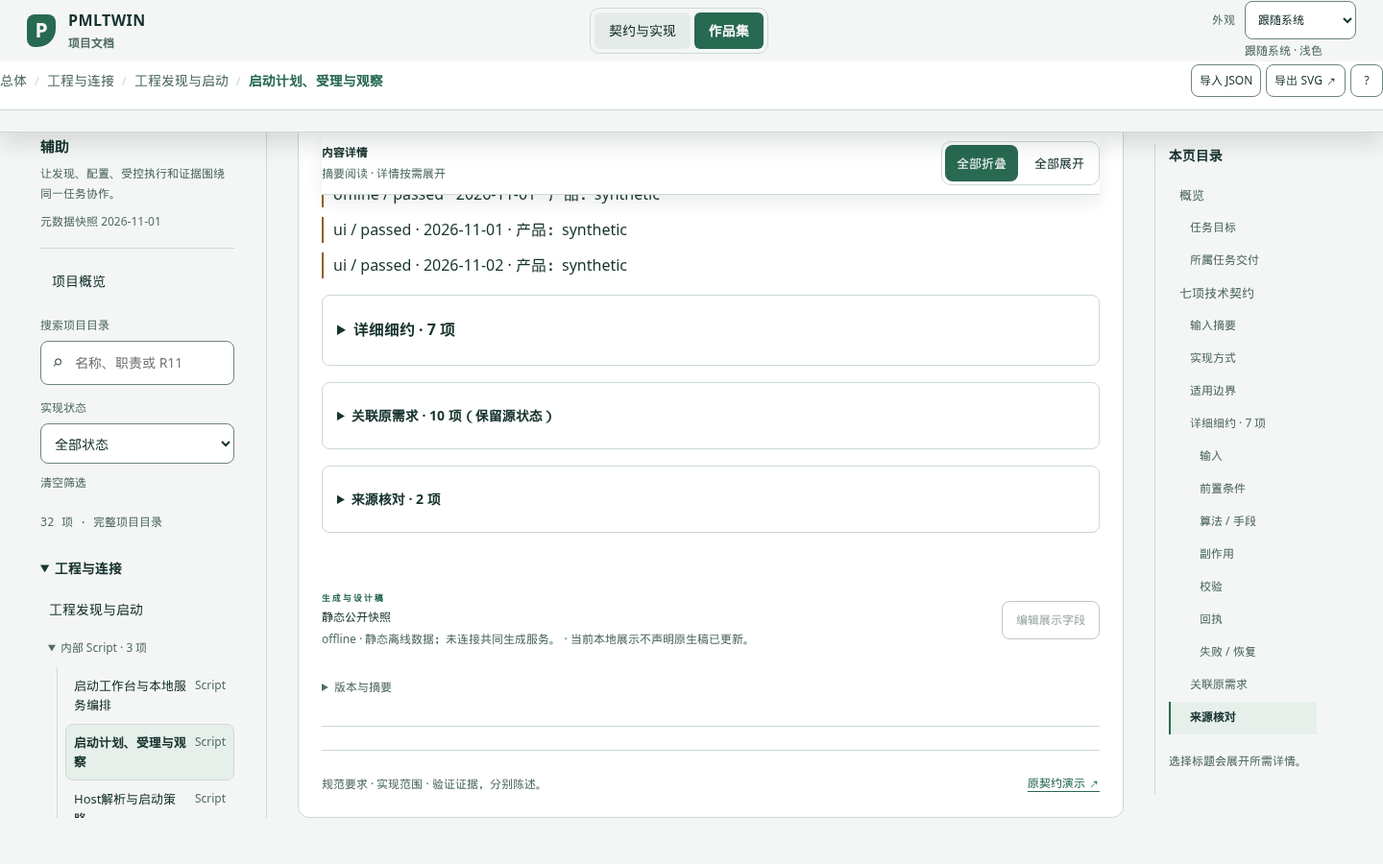
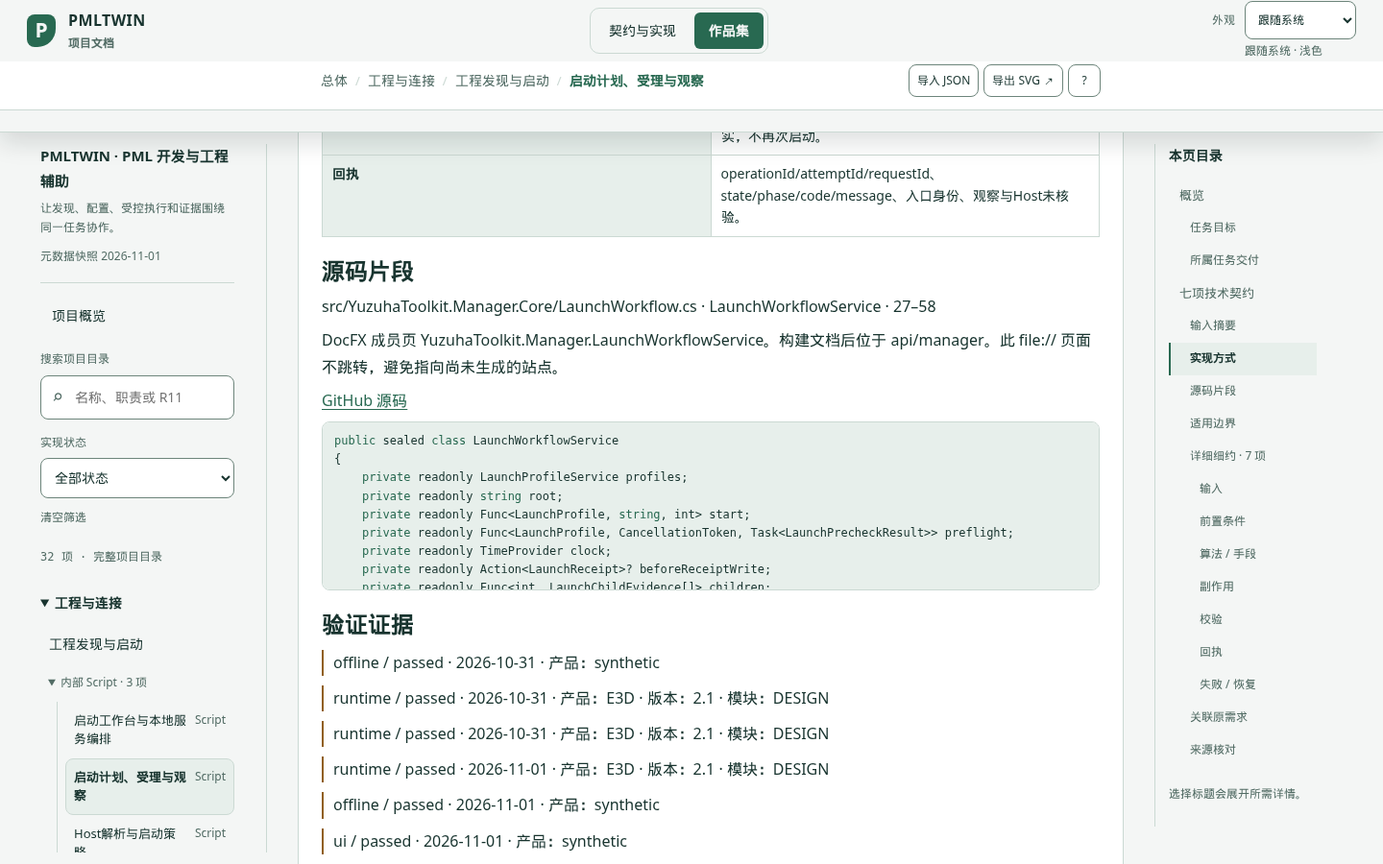
fix: align atlas crumbs and keep source code in view
Line the breadcrumb up with the content column, stop the fold bar from sticking over card titles, and show the first source fragment in the viewport with an outline entry.

diff --git a/docs/presentation/contract-atlas/components.js b/docs/presentation/contract-atlas/components.js
@@ -1,7 +1,7 @@
 (() => {
   'use strict';
   const create = (tag, text, attrs = {}) => { const item = document.createElement(tag); if (text !== undefined && text !== null) item.textContent = String(text); for (const [key, value] of Object.entries(attrs)) item.setAttribute(key, String(value)); return item; };
-  const common = `details{border:1px solid var(--atlas-border);border-radius:8px;padding:0 12px;margin:12px 0}summary{cursor:pointer;min-height:44px;display:list-item;align-content:center;padding:10px 0;color:var(--atlas-accent)}details>.field{padding:12px 0;border-top:1px solid var(--atlas-border)}details p{font-size:12px;line-height:1.9}.field h4{color:var(--atlas-accent);margin:12px 0 8px}.field-content{min-width:0}.boundary,.exclusions{color:var(--atlas-warning)!important;font-size:12px;line-height:1.9;margin:10px 0}.evidence-boundary{border-left:2px solid var(--atlas-warning);padding-left:10px;margin:10px 0}.evidence-boundary p{font-size:11px;color:var(--atlas-muted)}.requirement{padding:12px 0;border-top:1px solid var(--atlas-border)}.ledger-row{padding:12px 0;overflow-wrap:anywhere}.ledger-row code{font:10px/1.8 var(--atlas-mono)}:host{display:block;min-width:0;color:var(--atlas-text);font-family:var(--atlas-font);font-size:14px;line-height:1.7}*{box-sizing:border-box}button,a,summary{font:inherit}button{color:inherit;cursor:pointer}button:focus-visible,a:focus-visible,summary:focus-visible{outline:3px solid var(--atlas-accent);outline-offset:4px}p,h2,h3,h4,dl,dd,ul{margin:0}button{border:0;background:transparent}h3{font-size:20px;font-weight:500;line-height:1.5}h4{font-size:13px;font-weight:600}p{overflow-wrap:anywhere}.muted{color:var(--atlas-muted)}.label{font:10px var(--atlas-mono);letter-spacing:1px;color:var(--atlas-muted)}.badge{font:10px var(--atlas-mono);padding:3px 7px;display:inline-block;border:1px solid var(--atlas-border);border-radius:5px;color:var(--atlas-muted)}.badge.partial,.badge.planned{color:var(--atlas-warning)}.badge.implemented,.badge.verified{color:var(--atlas-accent)}.sources{display:flex;flex-wrap:wrap;gap:5px;margin-top:10px}.source{font:10px/1.7 var(--atlas-mono);border:1px solid var(--atlas-border);border-radius:4px;padding:3px 6px;color:var(--atlas-muted);overflow-wrap:anywhere}ul{padding-left:19px}.empty{padding:25px 0;color:var(--atlas-muted);font-size:13px}a{color:var(--atlas-accent);text-underline-offset:3px}.card-purpose{color:var(--atlas-text);font-size:14px;line-height:1.6;margin:8px 0}.language-tag{font:12px var(--atlas-mono);color:var(--atlas-muted)}.boundary-note{color:var(--atlas-text);font-size:14px;line-height:1.7;margin:6px 0}.boundary-warning{color:var(--atlas-warning);font-size:14px;line-height:1.7}.boundary-theme{display:inline-block;margin-right:8px;color:var(--atlas-muted);font-size:12px}.boundary-list{margin:8px 0 0;padding-left:18px}.reading-heading{font-size:18px;font-weight:650;line-height:1.45;margin:18px 0 8px;color:var(--atlas-text)}.io-table{width:100%;border-collapse:collapse;font-size:14px;line-height:1.6}.io-table th,.io-table td{border:1px solid var(--atlas-border);padding:8px 10px;text-align:left;vertical-align:top}.io-table th{width:8rem;background:var(--atlas-soft);font-weight:650}.snippet-links{display:flex;flex-wrap:wrap;gap:8px 14px;margin:8px 0;font-size:13px;line-height:1.6}.snippet-frame{max-height:11rem;overflow:auto;border:1px solid var(--atlas-border);border-radius:8px;background:var(--atlas-soft)}.source-snippet{margin:0;padding:10px 12px;font:12px/1.6 var(--atlas-mono);white-space:pre-wrap}.source-snippet .kw{color:var(--atlas-accent)}.source-snippet .cm{color:var(--atlas-muted)}@media(prefers-reduced-motion:reduce){*{transition:none!important;animation:none!important}}`;
+  const common = `details{border:1px solid var(--atlas-border);border-radius:8px;padding:0 12px;margin:12px 0}summary{cursor:pointer;min-height:44px;display:list-item;align-content:center;padding:10px 0;color:var(--atlas-accent)}details>.field{padding:12px 0;border-top:1px solid var(--atlas-border)}details p{font-size:12px;line-height:1.9}.field h4{color:var(--atlas-accent);margin:12px 0 8px}.field-content{min-width:0}.boundary,.exclusions{color:var(--atlas-warning)!important;font-size:12px;line-height:1.9;margin:10px 0}.evidence-boundary{border-left:2px solid var(--atlas-warning);padding-left:10px;margin:10px 0}.evidence-boundary p{font-size:11px;color:var(--atlas-muted)}.requirement{padding:12px 0;border-top:1px solid var(--atlas-border)}.ledger-row{padding:12px 0;overflow-wrap:anywhere}.ledger-row code{font:10px/1.8 var(--atlas-mono)}:host{display:block;min-width:0;color:var(--atlas-text);font-family:var(--atlas-font);font-size:14px;line-height:1.7}*{box-sizing:border-box}button,a,summary{font:inherit}button{color:inherit;cursor:pointer}button:focus-visible,a:focus-visible,summary:focus-visible{outline:3px solid var(--atlas-accent);outline-offset:4px}p,h2,h3,h4,dl,dd,ul{margin:0}button{border:0;background:transparent}h3{font-size:20px;font-weight:500;line-height:1.5}h4{font-size:13px;font-weight:600}p{overflow-wrap:anywhere}.muted{color:var(--atlas-muted)}.label{font:10px var(--atlas-mono);letter-spacing:1px;color:var(--atlas-muted)}.badge{font:10px var(--atlas-mono);padding:3px 7px;display:inline-block;border:1px solid var(--atlas-border);border-radius:5px;color:var(--atlas-muted)}.badge.partial,.badge.planned{color:var(--atlas-warning)}.badge.implemented,.badge.verified{color:var(--atlas-accent)}.sources{display:flex;flex-wrap:wrap;gap:5px;margin-top:10px}.source{font:10px/1.7 var(--atlas-mono);border:1px solid var(--atlas-border);border-radius:4px;padding:3px 6px;color:var(--atlas-muted);overflow-wrap:anywhere}ul{padding-left:19px}.empty{padding:25px 0;color:var(--atlas-muted);font-size:13px}a{color:var(--atlas-accent);text-underline-offset:3px}.card-purpose{color:var(--atlas-text);font-size:14px;line-height:1.6;margin:8px 0}.language-tag{font:12px var(--atlas-mono);color:var(--atlas-muted)}.boundary-note{color:var(--atlas-text);font-size:14px;line-height:1.7;margin:6px 0}.boundary-warning{color:var(--atlas-warning);font-size:14px;line-height:1.7}.boundary-theme{display:inline-block;margin-right:8px;color:var(--atlas-muted);font-size:12px}.boundary-list{margin:8px 0 0;padding-left:18px}.reading-heading{font-size:18px;font-weight:650;line-height:1.45;margin:18px 0 8px;color:var(--atlas-text)}.io-table{width:100%;border-collapse:collapse;font-size:14px;line-height:1.6}.io-table th,.io-table td{border:1px solid var(--atlas-border);padding:8px 10px;text-align:left;vertical-align:top}.io-table th{width:8rem;background:var(--atlas-soft);font-weight:650}h3,.reading-heading{scroll-margin-top:var(--document-anchor,140px)}.snippet-links{display:flex;flex-wrap:wrap;gap:8px 14px;margin:8px 0;font-size:13px;line-height:1.6}.snippet-frame{max-height:11rem;overflow:auto;border:1px solid var(--atlas-border);border-radius:8px;background:var(--atlas-soft)}.source-snippet{margin:0;padding:10px 12px;font:12px/1.6 var(--atlas-mono);white-space:pre-wrap}.source-snippet .kw{color:var(--atlas-accent)}.source-snippet .cm{color:var(--atlas-muted)}@media(prefers-reduced-motion:reduce){*{transition:none!important;animation:none!important}}`;
   const statuses = { implemented: '已实现', partial: '部分实现', planned: '拟议', verified: '规范已验证', unavailable: '不可用', passed: '通过', failed: '失败', unverified: '未核验' };
   function formatEnvironment(environment) { return globalThis.ContractAtlasRender.formatEnvironment(environment); }
   function applyProps(host, props, mode) { const resolved = globalThis.ContractAtlasRender.resolveProps(props || {}, { variant: mode }); host.dataset.variant = resolved.variant; host.dataset.density = resolved.density; host.dataset.orientation = resolved.orientation; return resolved; }
@@ -30,7 +30,7 @@
     let html = String(code).replaceAll('&', '&amp;').replaceAll('<', '&lt;').replaceAll('>', '&gt;');
     html = html.replace(/(\/\/.*|#.*)$/gm, '<span class="cm">$1</span>');
     const words = { csharp: 'class|record|public|private|internal|static|return|if|else|var|new|void|string', pml: 'define|function|method|if|then|else|endif', pascal: 'procedure|function|begin|end|var', powershell: 'param|function|if|else|foreach|try|catch', python: 'def|class|return|if|else' }[language] || 'class|return|if|else';
-    return html.replace(new RegExp('\\b(?:' + words + ')\\b', 'g'), '<span class="kw">$1</span>');
+    return html.replace(new RegExp('\\b(' + words + ')\\b', 'g'), '<span class="kw">$1</span>');
   }
   function boundaryItem(item) {
     const li = create('li', null, { 'data-boundary-item': item.theme, 'data-warning': String(!!item.warning), class: item.warning ? 'boundary-warning status-note' : 'boundary-note' });
@@ -58,21 +58,20 @@
     section.append(create('h3', '源码片段', { class: 'reading-heading' }));
     const items = (globalThis.CONTRACT_ATLAS_SNIPPETS?.items || []).filter(item => item.entityIds?.includes(card.entityId));
     if (!items.length) { section.append(create('p', '此范围没有按符号定位到单独源码。不改用外站链接代替页内片段。', { class: 'identity-note' })); return section; }
-    for (const item of items) {
-      const block = create('details', null, { class: 'snippet' });
-      if (items.length === 1) block.open = true;
-      block.append(create('summary', `${item.path} · ${item.symbol} · ${item.startLine}–${item.endLine}`));
+    items.forEach((item, index) => {
+      const block = index === 0 ? create('section', null, { class: 'snippet snippet-open' }) : create('details', null, { class: 'snippet' });
+      block.append(index === 0 ? create('p', `${item.path} · ${item.symbol} · ${item.startLine}–${item.endLine}`, { class: 'snippet-caption' }) : create('summary', `${item.path} · ${item.symbol} · ${item.startLine}–${item.endLine}`));
       const links = create('p', null, { class: 'snippet-links' });
       if (item.api?.typeUid) {
         const label = item.api.member ? `${item.api.typeUid}.${item.api.member}` : item.api.typeUid;
-        if (location.protocol === 'file:') links.append(create('span', `DocFX 成员页 ${label}。构建文档后位于 api/${item.api.project}。此 file:// 页面不跳转，避免指向尚未生成的站点。`, { class: 'identity-note', 'data-docfx-uid': item.api.typeUid, 'data-docfx-member': item.api.member || '' }));
+        if (location.protocol === 'file:') links.append(create('span', `DocFX 成员页 ${label}。构建文档后位于 api/${item.api.project}。此 file:// 页面不跳转，避免指向尚未生成的站点。`, { class: 'snippet-note', 'data-docfx-uid': item.api.typeUid, 'data-docfx-member': item.api.member || '' }));
         else links.append(create('a', 'DocFX API', { href: item.api.href, 'data-docfx-link': item.api.typeUid }));
-      } else links.append(create('span', 'Roslyn 不解析此文件。下面的片段和行号就是源码位置。', { class: 'identity-note', 'data-source-text': item.path }));
+      } else links.append(create('span', 'Roslyn 不解析此文件。下面的片段和行号就是源码位置。', { class: 'snippet-note', 'data-source-text': item.path }));
       if (item.githubHref) links.append(create('a', 'GitHub 源码', { href: item.githubHref, 'data-github-source': item.path }));
       const pre = create('pre', null, { class: 'source-snippet', 'data-snippet': item.id, 'data-path': item.path, 'data-start': String(item.startLine), 'data-end': String(item.endLine) });
       pre.innerHTML = highlight(item.text, item.language);
       const frame = create('div', null, { class: 'snippet-frame' }); frame.append(pre); block.append(links, frame); section.append(block);
-    }
+    });
     return section;
   }
   function boundarySection(host, card) {
@@ -194,7 +193,7 @@
           const method = card.sections.find(section => section.key === 'method');
           if (method) implementation.append(create('p', brief(method.text), { class: 'method-summary' }), sources(method.sourceRefs, data));
         } else implementation.append(create('p', card.text.status, { class: card.implementation ? 'status-note' : 'identity-note' }));
-        root.append(implementation, group('boundaries', '适用边界', boundarySection(this, card)), heading, readingBlocks(this, card, kind));
+        root.append(implementation, heading, readingBlocks(this, card, kind), group('boundaries', '适用边界', boundarySection(this, card)));
       } else {
         root.append(heading, create('p', card.summary, { class: 'description' }), readingBlocks(this, card, kind), boundarySection(this, card));
       }

diff --git a/docs/presentation/contract-atlas/document-layout.css b/docs/presentation/contract-atlas/document-layout.css
@@ -9,12 +9,12 @@ html{scroll-padding-top:var(--document-anchor)}
 body .brand small,body .appearance #theme-status,body .entity-list .nav-kind{font-size:12px}
 body{font-size:var(--atlas-type-body-size,16px);line-height:var(--atlas-type-body-line-height,1.7)}
 button,input,select{font-size:14px}button,input,select,summary{min-height:40px}
-.masthead{height:auto;max-width:none;padding:0;position:sticky;top:0;z-index:30;display:flex;flex-direction:column;align-items:stretch;gap:0;background:var(--atlas-bg);border-bottom:1px solid var(--atlas-border);box-shadow:0 10px 24px #10191c24}.masthead-bar{min-height:64px;display:flex;align-items:center;justify-content:space-between;gap:20px;padding:0 28px}.masthead-path{display:flex;align-items:center;justify-content:space-between;gap:12px;min-height:46px;padding:4px 28px 8px;background:var(--atlas-surface);border-top:1px solid var(--atlas-border)}.brand{font-size:16px;letter-spacing:.4px}.brand small{font-size:11px;letter-spacing:0}.brand-mark{width:30px;height:34px;font-size:21px}.appearance{grid-template-columns:auto 116px}.appearance #theme-status{font-size:11px}.view-switch button{font-size:14px;min-height:38px}
+.masthead{height:auto;max-width:none;padding:0;position:sticky;top:0;z-index:30;display:flex;flex-direction:column;align-items:stretch;gap:0;background:var(--atlas-bg);border-bottom:1px solid var(--atlas-border);box-shadow:0 10px 24px #10191c24}.masthead-bar{min-height:64px;display:flex;align-items:center;justify-content:space-between;gap:20px;padding:0 28px}.masthead-path{display:flex;align-items:center;justify-content:space-between;gap:12px;min-height:46px;padding:4px 28px 8px;box-sizing:border-box;width:100%;background:var(--atlas-surface);border-top:1px solid var(--atlas-border)}.brand{font-size:16px;letter-spacing:.4px}.brand small{font-size:11px;letter-spacing:0}.brand-mark{width:30px;height:34px;font-size:21px}.appearance{grid-template-columns:auto 116px}.appearance #theme-status{font-size:11px}.view-switch button{font-size:14px;min-height:38px}
 contract-atlas{max-width:1760px;padding:0 28px}.workspace{grid-template-columns:236px minmax(0,860px) 196px;gap:32px;justify-content:center;padding:24px 0 48px;align-items:start}
 .explorer,.page-outline{position:sticky;top:calc(var(--document-header) + 12px);max-height:calc(100dvh - var(--document-header) - 24px);overflow:auto;scrollbar-gutter:stable;overscroll-behavior:contain;min-width:0;padding:0 12px 12px 0;border:0;font-size:14px}.explorer{border-right:1px solid var(--atlas-border);padding-right:18px}.page-outline{padding-left:14px;border-left:1px solid var(--atlas-border)}
 .navigation-summary{font-size:14px;font-weight:600;cursor:pointer;padding:10px 12px;min-height:44px;border:1px solid var(--atlas-border);border-radius:8px;list-style:revert}.navigation-summary span{float:right;font-size:12px;font-weight:400;color:var(--atlas-muted)}.explorer>.navigation-summary{display:none}.project-context{padding-bottom:16px;border-bottom:1px solid var(--atlas-border)}.project-context strong{display:block;font-size:15px;font-weight:600}.project-context p{font-size:12px;color:var(--atlas-muted);line-height:1.7;margin:6px 0}.project-context>span{font-size:12px;color:var(--atlas-muted)}.overview-link{width:100%;text-align:left;margin:12px 0 0;padding:9px 11px;font-size:14px;border-color:transparent}.overview-link[aria-current=page]{background:var(--atlas-soft);border-color:var(--atlas-border);font-weight:600}
 .search-label{font-size:12px;margin:14px 0 6px}.search-wrap input,.explorer select{font-size:14px;min-height:42px}.search-wrap span{top:5px}.explorer .text-button{font-size:12px;padding:6px 0}.result-count{font-size:12px;letter-spacing:0;line-height:1.5;margin:12px 0}.entity-list{max-height:none;overflow:visible}.entity-list ul{list-style:none;margin:0;padding:0}.entity-list .nav-scripts{margin-left:9px;padding-left:8px;border-left:1px solid var(--atlas-border)}.entity-list button{font-size:14px;line-height:1.5;display:flex;gap:8px;align-items:start;padding:9px 8px;width:100%;min-height:40px;white-space:normal;text-align:left}.entity-list button small{display:none}.entity-list .nav-scripts button{font-size:13px}.entity-list button[aria-current=page]{font-weight:600;background:var(--atlas-soft);border:1px solid var(--atlas-border)}.entity-list .nav-kind{color:var(--atlas-muted);font-size:11px;font-weight:400;white-space:nowrap}.navigation-note{font-size:12px;color:var(--atlas-muted);border-top:1px solid var(--atlas-border);padding-top:16px;margin-top:16px}
-.canvas{min-width:0}.atlas-toolbar{min-height:44px;align-items:center;gap:12px;border-top:0;padding:0 0 10px;margin-bottom:22px}.breadcrumbs{font-size:13px}.toolbar-actions{gap:5px}.toolbar-actions button{font-size:12px;min-height:34px;padding:5px 8px}.canvas-heading{margin-bottom:16px}.canvas-heading h1{font-size:var(--atlas-type-title-size,32px);font-weight:var(--atlas-type-title-weight,650);line-height:1.3;letter-spacing:-.5px;margin:7px 0 14px;color:var(--atlas-text)}.canvas-heading .eyebrow{font-size:12px;letter-spacing:.6px}.canvas-heading p:not(.eyebrow){font-size:16px;line-height:1.8;color:var(--atlas-text)}.section-index{display:none}.reading-bar{position:sticky;top:var(--document-header);z-index:15;padding:9px 0;background:var(--atlas-bg);margin-bottom:20px;gap:10px;box-shadow:0 8px 16px #10191c14}.reading-bar strong{font-size:12px}.reading-bar span{font-size:12px}.disclosure-switch button{min-height:38px;font-size:13px;padding:7px 12px}.feedback{font-size:13px}.feedback:not(:empty){padding:0 0 14px}
+.canvas{min-width:0}.atlas-toolbar{min-height:44px;align-items:center;gap:12px;border-top:0;padding:0 0 10px;margin-bottom:22px}.breadcrumbs{font-size:13px}.toolbar-actions{gap:5px}.toolbar-actions button{font-size:12px;min-height:34px;padding:5px 8px}.canvas-heading{margin-bottom:16px}.canvas-heading h1{font-size:var(--atlas-type-title-size,32px);font-weight:var(--atlas-type-title-weight,650);line-height:1.3;letter-spacing:-.5px;margin:7px 0 14px;color:var(--atlas-text)}.canvas-heading .eyebrow{font-size:12px;letter-spacing:.6px}.canvas-heading p:not(.eyebrow){font-size:16px;line-height:1.8;color:var(--atlas-text)}.section-index{display:none}.reading-bar{position:static;top:auto;z-index:1;padding:9px 0;background:transparent;margin-bottom:20px;gap:10px;box-shadow:none}.reading-bar strong{font-size:12px}.reading-bar span{font-size:12px}.disclosure-switch button{min-height:38px;font-size:13px;padding:7px 12px}.feedback{font-size:13px}.feedback:not(:empty){padding:0 0 14px}
 .portfolio-context{margin-top:16px}.portfolio-meta{display:flex;gap:8px;flex-wrap:wrap;color:var(--atlas-muted);font-size:12px}.portfolio-meta span{padding:3px 9px;border:1px solid var(--atlas-border);border-radius:6px}.portfolio-outcomes{display:flex;align-items:baseline;flex-wrap:wrap;gap:7px 12px;margin:14px 0 4px;font-size:14px}.outcome-label{font-size:12px;color:var(--atlas-muted)}.outcome-item{font-weight:600}.outcome-item+.outcome-item:before{content:'·';margin-right:12px;color:var(--atlas-muted)}#document-tools{position:relative}#document-tools>summary{font-size:12px;min-height:34px;padding:6px 9px;cursor:pointer;list-style:none;border:1px solid var(--atlas-border);border-radius:7px}.tool-menu{display:flex;gap:5px}#method-entry{display:inline-block;margin-top:14px;padding:8px 12px;border:1px solid var(--atlas-border);border-radius:7px;font-size:13px;color:var(--atlas-text)}
 .overview-brief{margin:16px 0 30px}.overview-stats strong{font-size:24px}.overview-stats span,.project-values small{font-size:12px}.project-values p,.task-entries span{font-size:14px}.task-entries strong{font-size:15px}.task-entries button{padding:14px;min-height:100px}.overview-brief{--section-accent:var(--atlas-section-overview-accent,var(--atlas-accent));--section-surface:var(--atlas-section-overview-surface,var(--atlas-soft))}.overview-stats{border-top:3px solid var(--section-accent);background:var(--section-surface)}.project-values article{border-color:var(--section-accent)}.project-values p{color:var(--atlas-text)}.overview-stats strong{color:var(--atlas-text)}
 [data-section-kind=contract]{--section-accent:var(--atlas-section-contract-accent,var(--atlas-accent));--section-surface:var(--atlas-section-contract-surface,var(--atlas-soft))}[data-section-kind=flow]{--section-accent:var(--atlas-section-flow-accent,var(--atlas-accent));--section-surface:var(--atlas-section-flow-surface,var(--atlas-soft))}[data-section-kind=implementation]{--section-accent:var(--atlas-section-implementation-accent,var(--atlas-accent));--section-surface:var(--atlas-section-implementation-surface,var(--atlas-soft))}[data-section-kind=evidence]{--section-accent:var(--atlas-section-evidence-accent,var(--atlas-accent));--section-surface:var(--atlas-section-evidence-surface,var(--atlas-soft))}[data-section-kind=reference]{--section-accent:var(--atlas-section-reference-accent,var(--atlas-accent));--section-surface:var(--atlas-section-reference-surface,var(--atlas-soft))}

diff --git a/docs/presentation/contract-atlas/app.js b/docs/presentation/contract-atlas/app.js
@@ -8,12 +8,12 @@
   const components = { task: $('task-map'), flow: $('contract-flow'), map: $('feature-map'), detail: $('contract-detail'), evidence: $('evidence-strip'), methods: $('method-panel'), reference: $('contract-reference') };
   const disclosure = new globalThis.ContractAtlasDisclosure.Controller({ onChange: change => {
     updateDisclosureControls();if(change.type!=='all')return;const saved=retainUI();
-    if(change.mode==='summary'&&sectionKey){sectionKey=sectionKey.split(':')[0];if(!['overview','contract','methods','flow','catalog','evidence','reference'].includes(sectionKey))sectionKey='overview';sectionStates.set(sectionScope(),sectionKey);saved.reading={key:sectionKey,top:$('.masthead').getBoundingClientRect().height+$('.reading-bar').getBoundingClientRect().height+18,focus:false};}
+    if(change.mode==='summary'&&sectionKey){sectionKey=sectionKey.split(':')[0];if(!['overview','contract','methods','flow','catalog','evidence','reference'].includes(sectionKey))sectionKey='overview';sectionStates.set(sectionScope(),sectionKey);saved.reading={key:sectionKey,top:$('.masthead').getBoundingClientRect().height+16,focus:false};}
     route();render();restoreUI(saved);
   } });
   const outline = new globalThis.ContractAtlasOutline.Controller({
     content:$('.canvas'),nav:$('#page-outline-list'),
-    getOffset:()=>$('.masthead').getBoundingClientRect().height+$('.reading-bar').getBoundingClientRect().height+18,
+    getOffset:()=>$('.masthead').getBoundingClientRect().height+16,
     onOpen:keys=>{for(const key of keys)disclosure.record(key,true);render();},
     onNavigate:(key,options={})=>{sectionKey=key;sectionStates.set(sectionScope(),key);route(options.history!==false);},
     onFallback:message=>{sectionKey='';sectionStates.set(sectionScope(),'');route();$('#section-title').focus({preventScroll:true});$('#section-title').scrollIntoView({block:'start'});feedback(message,true);}
@@ -144,7 +144,7 @@
       breadcrumbs.append(button);
     });
   }
-  function syncChrome(){const bar=$('.masthead');if(!bar)return;const height=Math.ceil(bar.getBoundingClientRect().height);document.documentElement.style.setProperty('--document-header',height+'px');document.documentElement.style.setProperty('--document-anchor',(height+28)+'px');}
+  function syncChrome(){const bar=$('.masthead'),path=$('.masthead-path'),canvas=$('.canvas');if(!bar)return;const height=Math.ceil(bar.getBoundingClientRect().height);document.documentElement.style.setProperty('--document-header',height+'px');document.documentElement.style.setProperty('--document-anchor',(height+16)+'px');if(path&&canvas){const box=canvas.getBoundingClientRect(),pad=parseFloat(getComputedStyle(canvas).paddingLeft)||0,rightPad=parseFloat(getComputedStyle(canvas).paddingRight)||0;path.style.paddingLeft=Math.max(0,Math.round(box.left+pad))+'px';path.style.paddingRight=Math.max(0,Math.round(innerWidth-box.right+rightPad))+'px';}}
   function renderHome(){const lead=$('#home-lead'),grid=$('#entry-grid');if(!lead||!grid)return;lead.textContent=mode==='portfolio'?'这是 PmlTrigger.Yuzuha 的作品集：设计意图 → 契约 → Script / Feature。从一张入口卡进去。状态和证据随各任务分开，不代表实机通过或人工视觉认可。':'同一套资料的核对入口：设计意图 → 契约字段 → Script / Feature。阅读位置不会变成执行授权。';grid.replaceChildren();const entries=[['intent','从设计意图开始浏览','打开「工程发现与启动」，先读任务目标与交付。',()=>{mode='portfolio';select('feature:launch');setBranch('contract');}],['features','按 Feature 浏览','进入任务地图，按目标类别选择一个 Feature。',()=>{nextSurface='tasks';select(data.project.id);}],['tasks','任务地图','打开「工程发现与启动」已登记的步骤。位置只表示阅读进度。',()=>{mode='portfolio';select('feature:launch');}],['contract','契约与实现对照','切换到契约视图，按字段、方法与证据核对「工程发现与启动」。',()=>{mode='help';select('feature:launch');setBranch('contract');}]];for(const [id,title,text,go] of entries){const button=create('button',null,{type:'button',class:'entry-card','data-entry':id});button.append(create('strong',title),create('span',text));button.onclick=go;grid.append(button);}}
   function renderPortfolioContext(kind,item){
     const box=$('#portfolio-context');box.replaceChildren();box.hidden=kind==='project';if(box.hidden)return;
@@ -162,6 +162,7 @@
     for(const field of detail.querySelectorAll('[data-section-id]'))mark(field.querySelector('h4'),'contract:field:'+field.dataset.sectionId,4);
     mark(detail.querySelector('details[data-disclosure-key$="|contract-requirements"]>summary'),'contract:requirements',3,'关联原需求');
     mark(detail.querySelector('details[data-disclosure-key$="|contract-sources"]>summary'),'contract:sources',3,'来源核对');
+    mark(detail.querySelector('[data-reading-part="source"] .reading-heading'),'contract:source',3,'源码片段');
     const flow=components.flow.shadowRoot;mark(flow.querySelector('h3'),'flow:current',3);
     for(const step of flow.querySelectorAll('[data-step-id]'))mark(step.parentElement.querySelector('details>summary'),'flow:step:'+step.dataset.stepId,4,step.querySelector('strong')?.textContent);
     const methods=components.methods.shadowRoot;mark(methods.querySelector('details[data-disclosure-key$="|analysis"]>summary'),'methods:analysis',3,'分析范围与输入');

diff --git a/docs/validation/design-contract-script-trace-2026-11-02.zh-CN.md b/docs/validation/design-contract-script-trace-2026-11-02.zh-CN.md
@@ -233,9 +233,15 @@ Script 卡片墙原先把边界拼成橙色长段。
 
 ![修改后卡片墙](contract-atlas-reading-2026-11-02/cards-after-wall-1440.png)
 
-Script 详情在页内给出相对路径和源码片段，不打开 GitHub。
+Script 详情在页内给出相对路径和源码片段，不打开 GitHub。上一张截图停在证据区，代码不在画面里。现已把第一段源码直接展开，本页目录有「源码片段」，并滚到代码块再拍。
 
 ![源码片段](contract-atlas-reading-2026-11-02/script-detail-snippet-1440.png)
+
+面包屑按主内容列的内边距对齐，不再贴着视口左缘。折叠控件留在正文里，不再做第二条吸顶栏，避免盖住卡片标题。
+
+![滚动后卡片标题露出](contract-atlas-reading-2026-11-02/entry-scrolled-cards-1440.png)
+
+![窄屏面包屑与内容对齐](contract-atlas-reading-2026-11-02/entry-crumbs-390.png)
 
 作品集与契约视图仍用同一数据。作品集把目标放在大卡片里；契约视图把核对路径和字段表放在前面。
 
